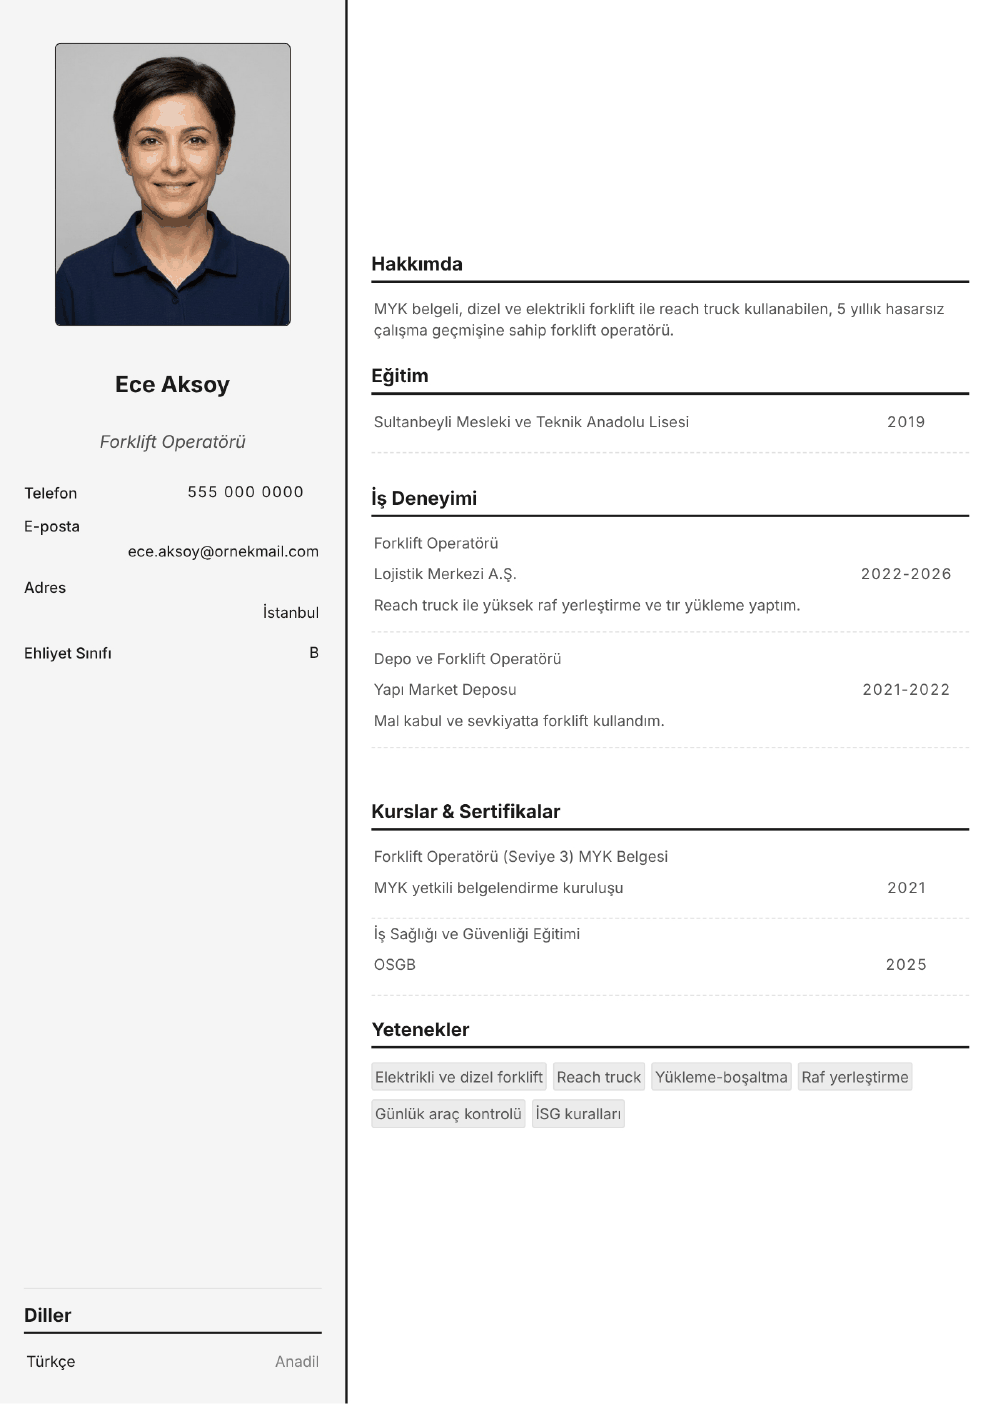
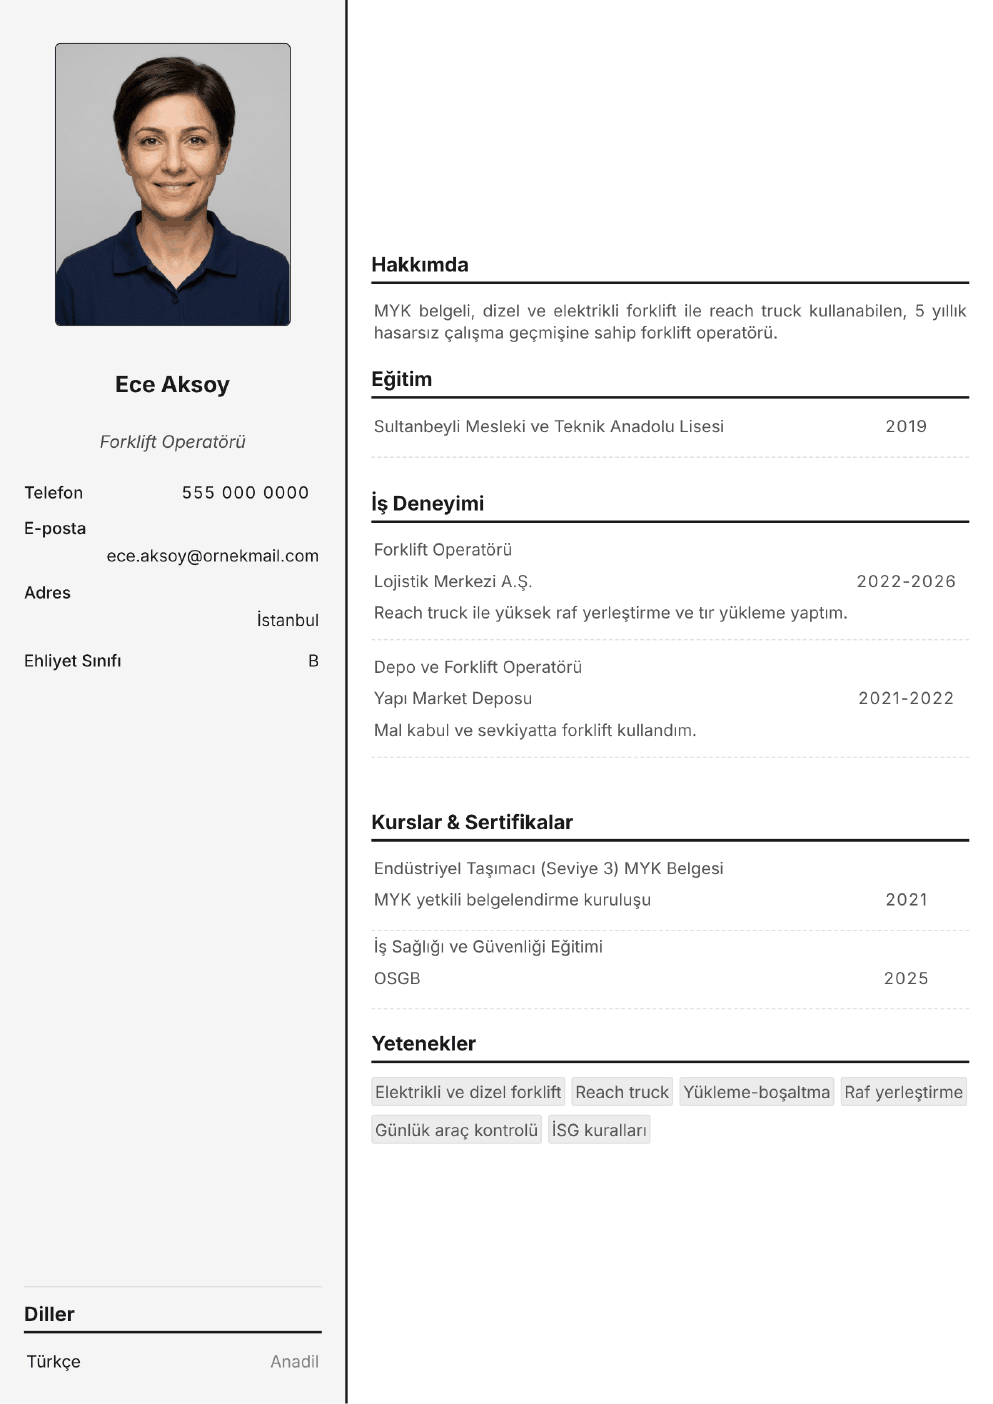
Forklift operatörü örnek CV: var olmayan belge adı düzeltildi
MYK'da 'Forklift Operatörü (Seviye 3)' adlı belge yok; depo forklifti için ulusal yeterlilik 'Endüstriyel Taşımacı (Seviye 3)' (13UY0145-3, B1 seçmeli birimi: Endüstriyel Forklift, İstif Makinesi ve Transpalet Kullanımı; MYK sertifika eki). Liman için ayrıca 'Liman Forklift Operatörü (Seviye 3)' var. Sayfa metni ve fotoğraflı/fotoğrafsız örnek görseller + küçük resim yeniden üretildi (güncel site çıktısı).

Claude-Session: https://claude.ai/code/session_01Y3TyAZCoGoxbUTcukDJG1y

diff --git a/forklift-operatoru-cv-sablonu.html b/forklift-operatoru-cv-sablonu.html
@@ -208,7 +208,7 @@
                     </ul>
                     <h3>Kurslar &amp; Sertifikalar</h3>
                     <ul>
-                        <li>Forklift Operatörü (Seviye 3) MYK Belgesi, MYK yetkili belgelendirme kuruluşu (2021)</li>
+                        <li>Endüstriyel Taşımacı (Seviye 3) MYK Belgesi, MYK yetkili belgelendirme kuruluşu (2021)</li>
                         <li>İş Sağlığı ve Güvenliği Eğitimi, OSGB (2025)</li>
                     </ul>
                     <h3>Yetenekler</h3>
